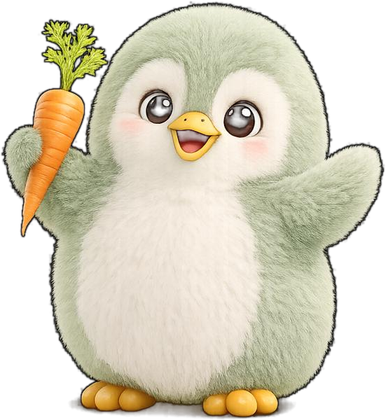
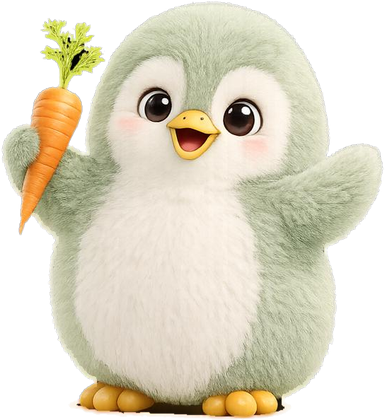
Penguin lives on-screen permanently + enhanced sprite (v0605-97)
The mascot is now a persistent companion on a fixed stage above the
bottom tab bar - always visible while scrolling, on every calendar
view. One brain, all states:
- roams with a real foot-pivot waddle (weight shifts over the planted
  foot, rises mid-step, settles at footfall, steady linear travel)
- random hops, counted "penguin curls" workout sets, rotating sass
  bubbles; absent-yesterday and untouched-meals lines fold in as
  occasional weighted picks
- reacts within 2.4s whenever ANY habit is logged (_tak now emits a
  "doerlog" event): hop + reaction line
- 100% day: celebrates, then sleeps in his bed bottom-right with
  rising z's (dark mode: bobbing beside the ring); wakes if the day
  drops below 100
- tap = playful poke reaction; he never leaves (dismissal removed)

Sprite re-extracted: border-flood keying + contaminated-edge erosion
+ mathematical defringe kills the black outline from the black-bg
source; eyes now fully opaque; softer drop-shadow. Bed replaced with
the user's HQ white-bg render, flood-keyed.

Old per-card mascot renders and meal-snark row removed; DayView
mascot state logic dropped in favor of App-level DoerBuddy mount.

Verified in preview: persistence across deep scroll, log reaction,
100% celebrate-then-sleep, wake on uncheck, light+dark, no errors.

diff --git a/sw.js b/sw.js
@@ -1,6 +1,6 @@
 // DOER Service Worker — network-first for HTML/JS with offline cache fallback,
 // cache-first for static assets, passthrough for cross-origin (Supabase, etc.)
-const VERSION = 'doer-v0605-96';
+const VERSION = 'doer-v0605-97';
 const PRECACHE = ['./', 'index.html', 'manifest.json', 'icon-192.png', 'icon-512.png', 'icon-512-maskable.png', 'apple-touch-icon.png', 'penguin.png', 'penguin-bed.png'];
 
 self.addEventListener('install', (e) => {